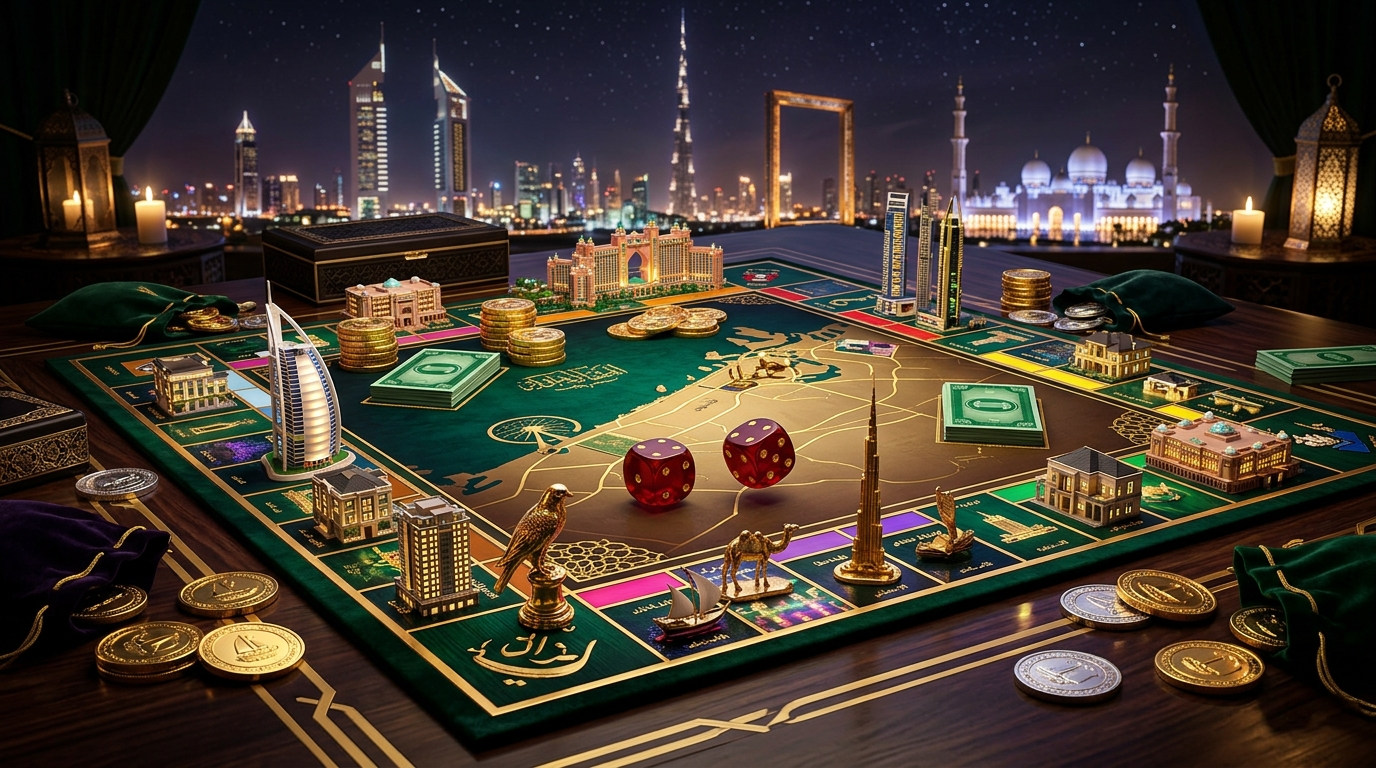
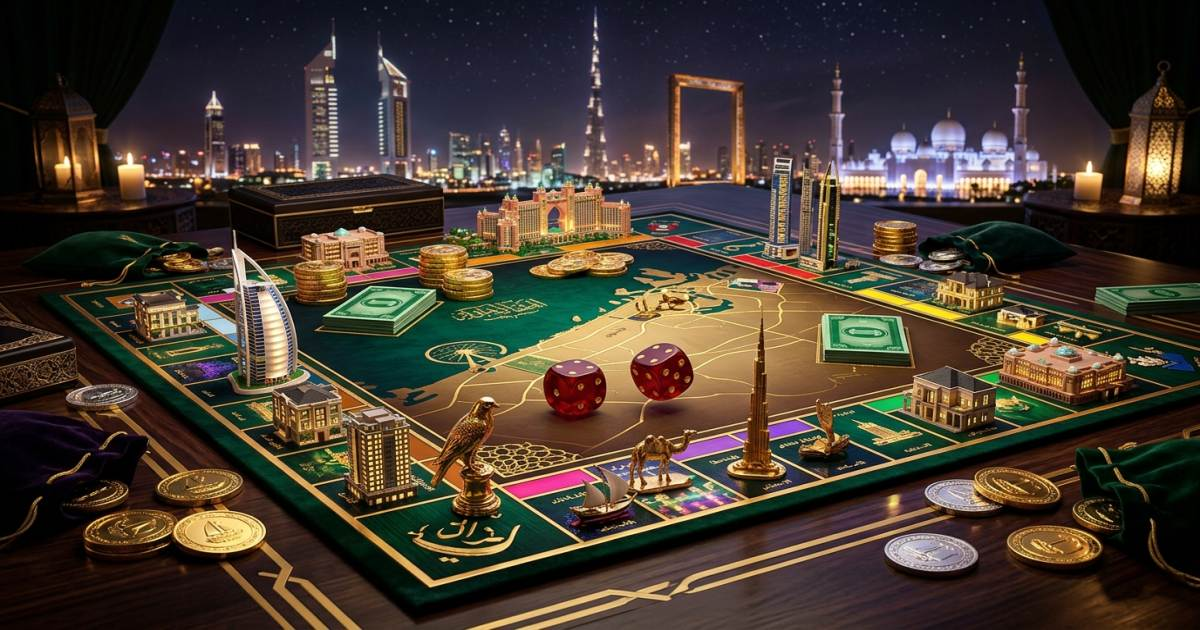
Fix WhatsApp thumbnail image preview

diff --git a/index.html b/index.html
@@ -11,7 +11,7 @@
     <meta property="og:title" content="أملاك وعقارات | Amlak & Real Estate" />
     <meta property="og:description" content="لعبة أملاك وعقارات - الصفقات والاستثمار العقاري أونلاين - تنافس مع أصدقائك في غرف خاصة أو ضد الذكاء الاصطناعي مع مدن وعواصم عربية فاخرة." />
     <meta property="og:url" content="https://amlak-aqaarat.vercel.app/" />
-    <meta property="og:image" content="https://amlak-aqaarat.vercel.app/og-image.jpg" />
+    <meta property="og:image" content="https://amlak-aqaarat.vercel.app/og-image.jpg?v=2" />
     <meta property="og:image:type" content="image/jpeg" />
     <meta property="og:image:width" content="1200" />
     <meta property="og:image:height" content="630" />
@@ -21,7 +21,7 @@
     <meta name="twitter:card" content="summary_large_image" />
     <meta name="twitter:title" content="أملاك وعقارات | Amlak & Real Estate" />
     <meta name="twitter:description" content="لعبة أملاك وعقارات - الصفقات والاستثمار العقاري أونلاين - تنافس مع أصدقائك في غرف خاصة أو ضد الذكاء الاصطناعي مع مدن وعواصم عربية فاخرة." />
-    <meta name="twitter:image" content="https://amlak-aqaarat.vercel.app/og-image.jpg" />
+    <meta name="twitter:image" content="https://amlak-aqaarat.vercel.app/og-image.jpg?v=2" />
     <!-- Google Fonts: Cairo, Tajawal, Outfit -->
     <link rel="preconnect" href="https://fonts.googleapis.com">
     <link rel="preconnect" href="https://fonts.gstatic.com" crossorigin>
